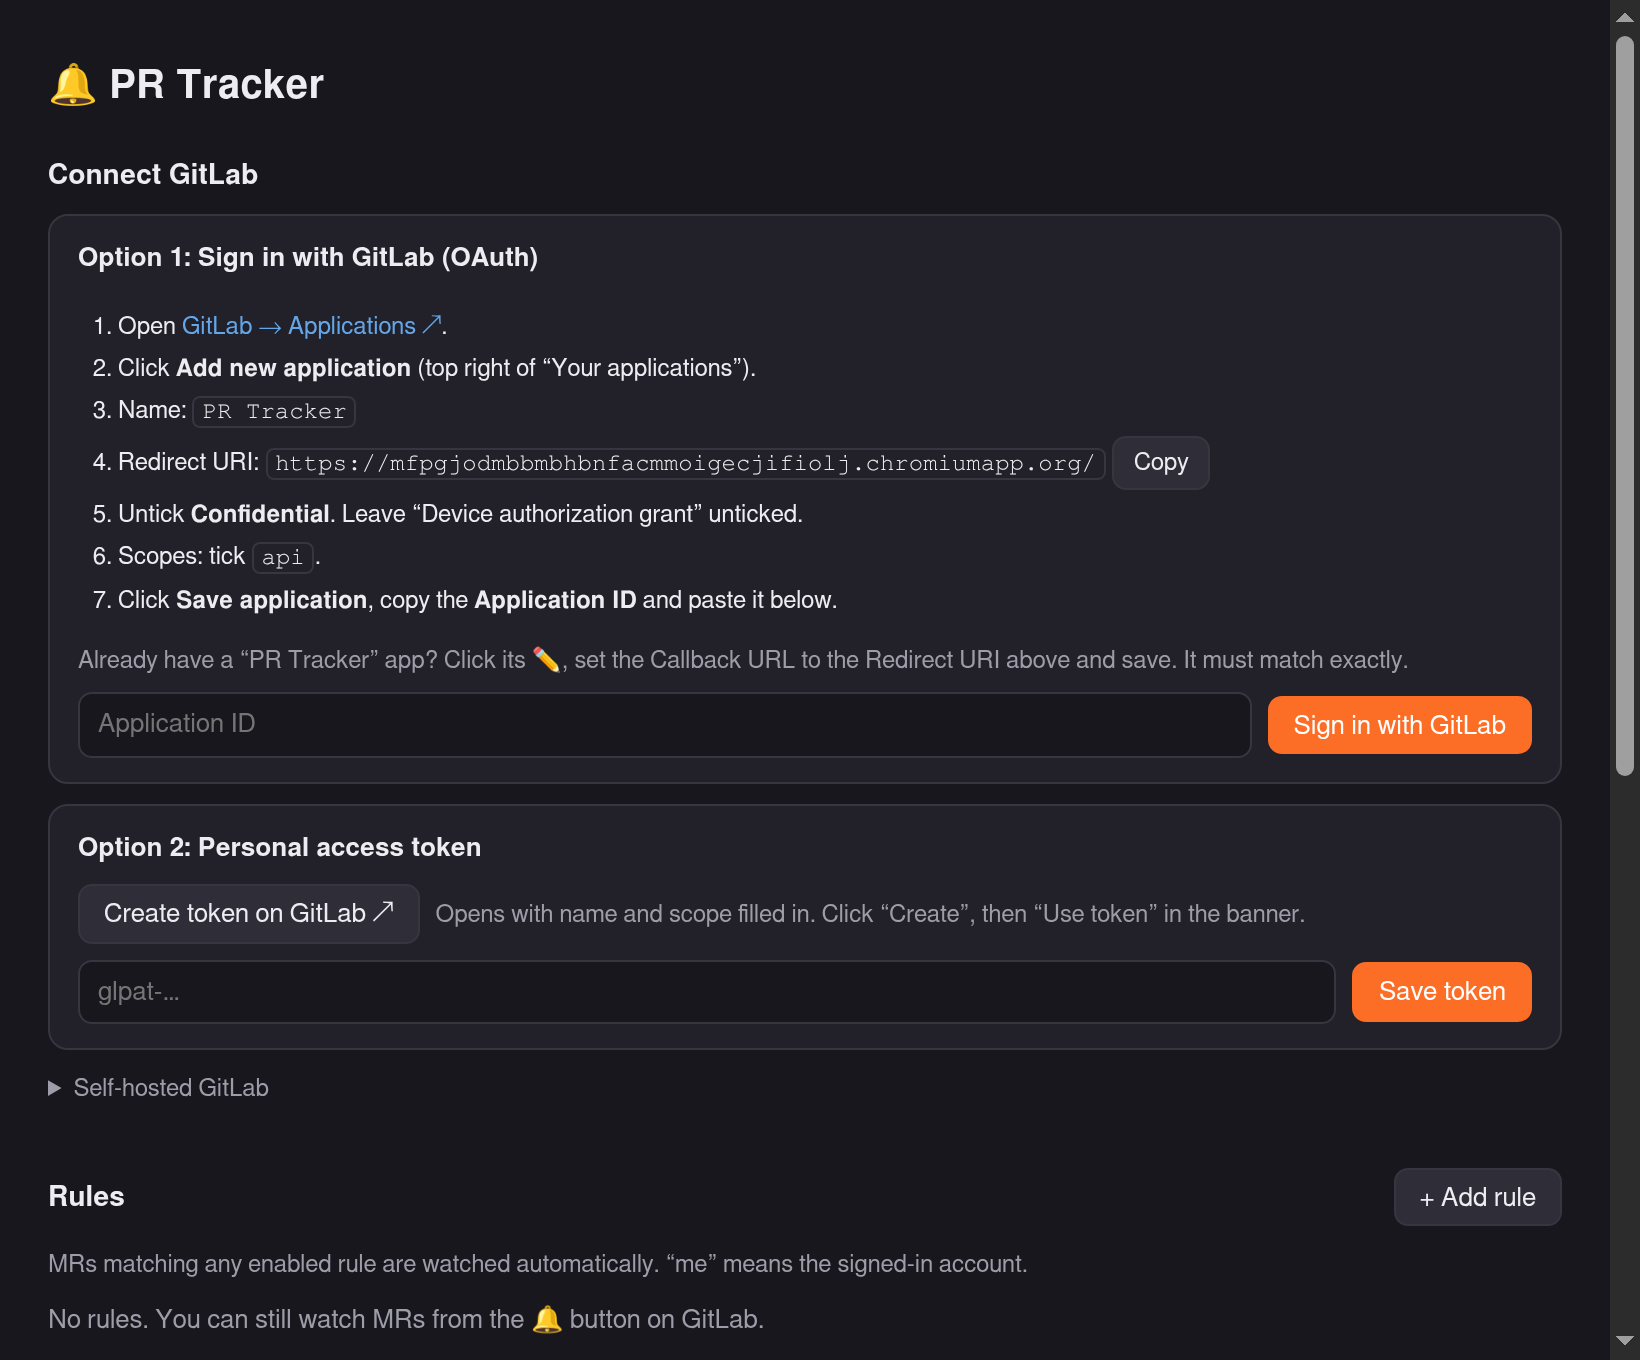
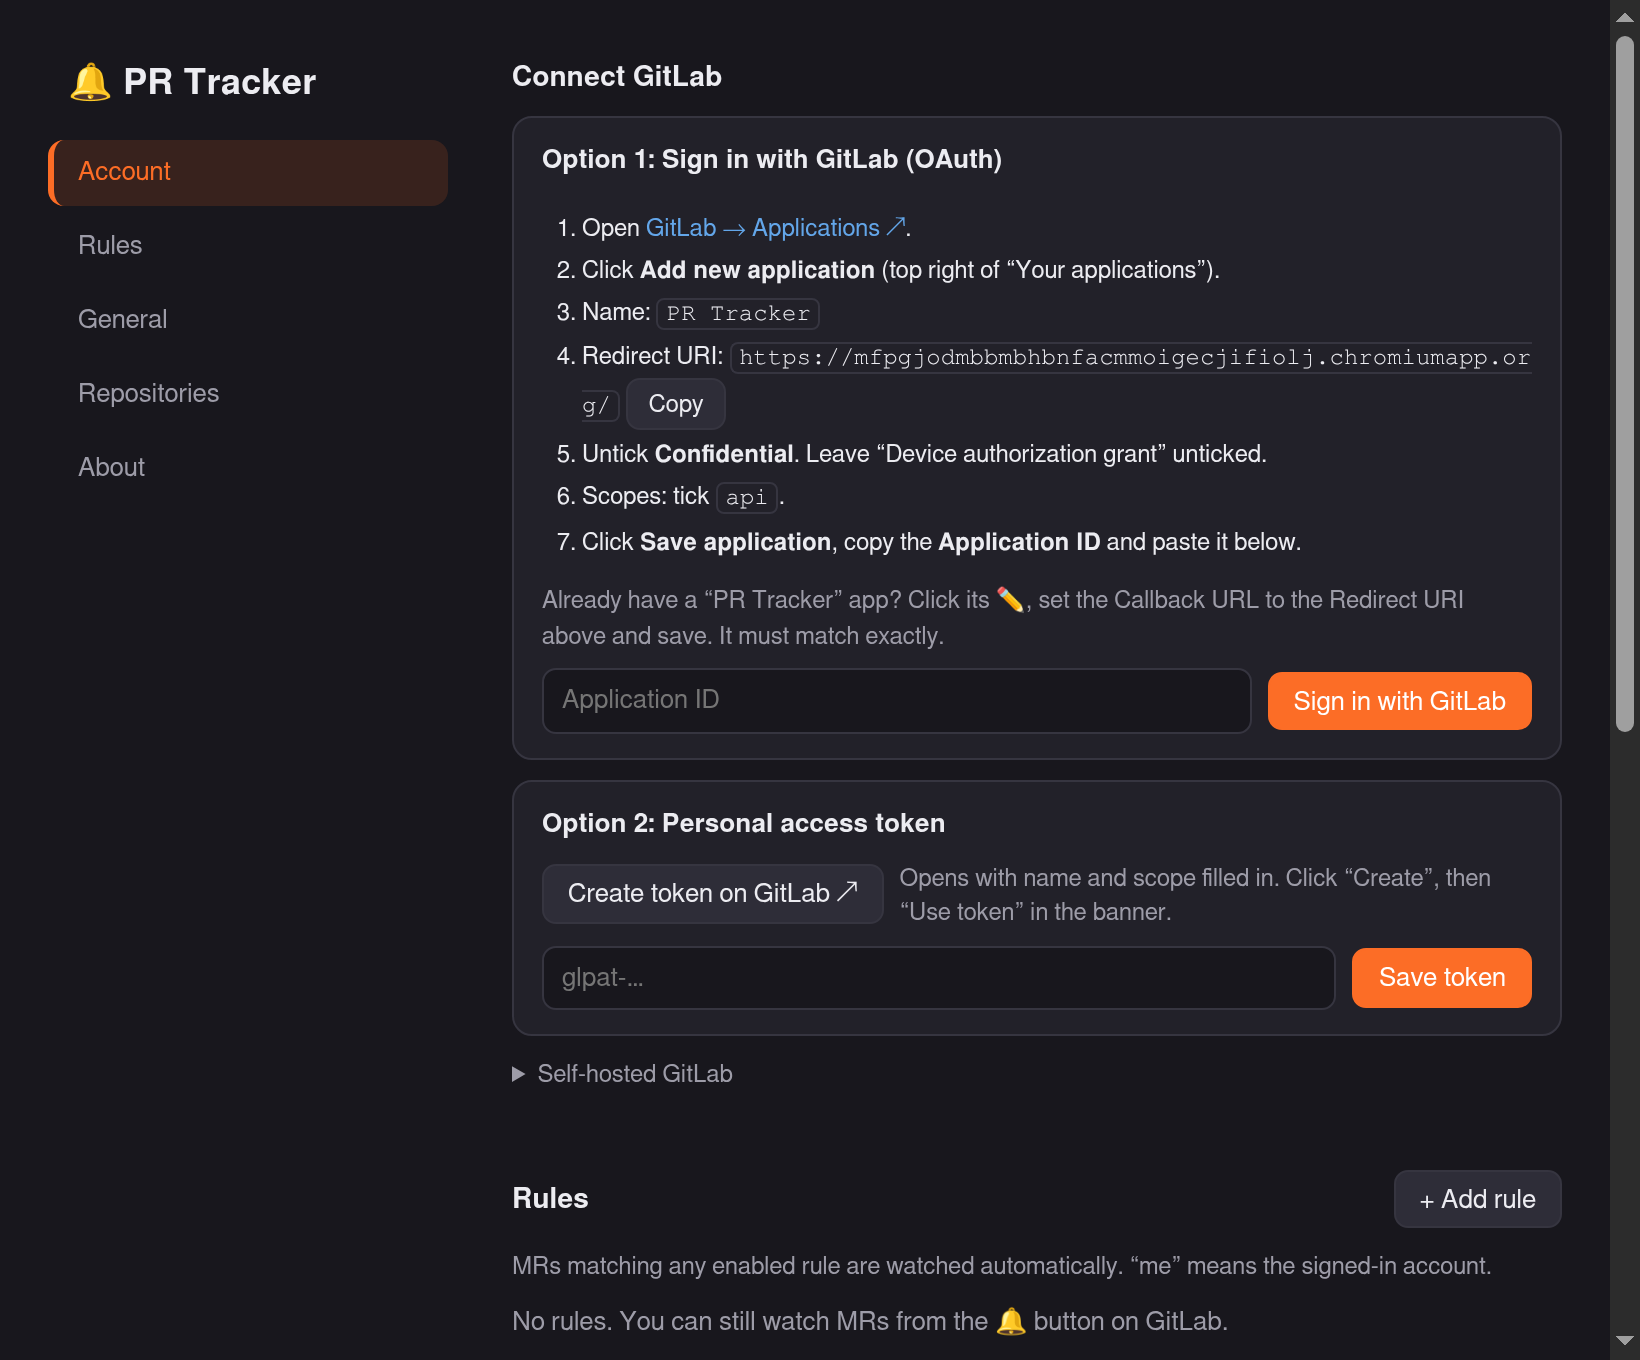
feat: add sticky vertical sidebar navigation with scroll-spy to Settings
- Replace 2-column Settings layout with a sticky left vertical tab picker and scrollable content pane
- Highlight active section tab with accent color and smooth-scroll on click
- Sync active tab automatically while scrolling (including bottom-of-page About detection)
- Refresh Settings screenshot in docs/screenshots/

diff --git a/src/pages/options/options.css b/src/pages/options/options.css
@@ -1,11 +1,86 @@
-body { padding: 28px 24px 64px; }
-.page { max-width: 1100px; margin: 0 auto; display: flex; flex-direction: column; gap: 20px; }
-.page-title { font-size: 20px; }
-.columns { display: grid; grid-template-columns: 1.15fr 1fr; gap: 20px; align-items: start; }
-.col { display: flex; flex-direction: column; gap: 20px; min-width: 0; }
-@media (max-width: 860px) { .columns { grid-template-columns: 1fr; } }
-section { display: flex; flex-direction: column; gap: 10px; }
-.field { display: grid; grid-template-columns: 140px 1fr; align-items: center; gap: 10px; }
+html { scroll-behavior: smooth; }
+body { padding: 28px 24px 96px; }
+.layout {
+  max-width: 1020px;
+  margin: 0 auto;
+  display: grid;
+  grid-template-columns: 200px minmax(0, 1fr);
+  gap: 32px;
+  align-items: start;
+}
+.sidebar {
+  position: sticky;
+  top: 28px;
+  display: flex;
+  flex-direction: column;
+  gap: 16px;
+}
+.brand { font-size: 18px; padding-left: 10px; }
+.nav { display: flex; flex-direction: column; gap: 4px; }
+.nav-item {
+  width: 100%;
+  text-align: left;
+  padding: 8px 12px;
+  border-radius: 8px;
+  border: 0;
+  border-left: 3px solid transparent;
+  background: transparent;
+  color: var(--muted);
+  font: 500 13px/1.3 system-ui, -apple-system, 'Segoe UI', sans-serif;
+  cursor: pointer;
+  transition: background 0.12s ease, color 0.12s ease, border-color 0.12s ease;
+}
+.nav-item:hover {
+  background: var(--surface);
+  color: var(--text);
+  border-color: transparent;
+}
+.nav-item.active {
+  background: color-mix(in srgb, var(--accent) 14%, transparent);
+  color: var(--accent);
+  border-left-color: var(--accent);
+}
+.nav-item.active:hover {
+  background: color-mix(in srgb, var(--accent) 18%, transparent);
+  border-left-color: var(--accent);
+}
+.content {
+  display: flex;
+  flex-direction: column;
+  gap: 28px;
+  min-width: 0;
+  max-width: 760px;
+}
+section {
+  display: flex;
+  flex-direction: column;
+  gap: 10px;
+  scroll-margin-top: 28px;
+}
+@media (max-width: 760px) {
+  .layout { grid-template-columns: 1fr; gap: 16px; }
+  .sidebar {
+    position: sticky;
+    top: 0;
+    z-index: 10;
+    background: var(--bg);
+    padding: 8px 0;
+    border-bottom: 1px solid var(--border);
+    gap: 10px;
+  }
+  .nav { flex-direction: row; overflow-x: auto; }
+  .nav-item {
+    width: auto;
+    border-left: 0;
+    border-bottom: 2px solid transparent;
+    border-radius: 6px 6px 0 0;
+  }
+  .nav-item.active, .nav-item.active:hover {
+    border-left-color: transparent;
+    border-bottom-color: var(--accent);
+  }
+}
+.field { display: grid; grid-template-columns: 150px 1fr; align-items: center; gap: 10px; }
 .field-checks { display: flex; flex-wrap: wrap; gap: 6px 4px; }
 @media (max-width: 560px) { .field { grid-template-columns: 1fr; } }
 ol { margin: 4px 0 0; padding-left: 20px; }

diff --git a/src/pages/options/nav.ts b/src/pages/options/nav.ts
@@ -1,0 +1,53 @@
+export function initSectionNav(): void {
+  const buttons = [...document.querySelectorAll<HTMLButtonElement>('.nav-item[data-target]')];
+  const sections = buttons
+    .map((btn) => document.getElementById(btn.dataset.target!))
+    .filter((el): el is HTMLElement => Boolean(el));
+
+  let activeId = sections[0]?.id ?? '';
+  let lockUntil = 0;
+
+  const setActive = (id: string): void => {
+    if (id === activeId) return;
+    activeId = id;
+
+    for (const btn of buttons) {
+      btn.classList.toggle('active', btn.dataset.target === id);
+    }
+  };
+
+  for (const btn of buttons) {
+    btn.addEventListener('click', () => {
+      const id = btn.dataset.target;
+      if (!id) return;
+
+      const target = document.getElementById(id);
+      if (!target) return;
+
+      setActive(id);
+      lockUntil = Date.now() + 500;
+      target.scrollIntoView({ behavior: 'smooth', block: 'start' });
+    });
+  }
+
+  const syncFromScroll = (): void => {
+    if (Date.now() < lockUntil || sections.length === 0) return;
+
+    const atBottom = window.innerHeight + window.scrollY >= document.documentElement.scrollHeight - 8;
+    if (atBottom) {
+      setActive(sections[sections.length - 1].id);
+      return;
+    }
+
+    let current = sections[0].id;
+    for (const section of sections) {
+      if (section.getBoundingClientRect().top <= 120) {
+        current = section.id;
+      }
+    }
+
+    setActive(current);
+  };
+
+  window.addEventListener('scroll', syncFromScroll, { passive: true });
+}

diff --git a/src/pages/options/options.html b/src/pages/options/options.html
@@ -7,19 +7,24 @@
     <link rel="stylesheet" href="options.css" />
   </head>
   <body>
-    <div class="page">
-      <h1 class="page-title">🔔 PR Tracker</h1>
-      <section id="connection"></section>
-      <div class="columns">
-        <div class="col">
-          <section id="rules"></section>
-        </div>
-        <div class="col">
-          <section id="general"></section>
-          <section id="repos"></section>
-          <section id="about"></section>
-        </div>
-      </div>
+    <div class="layout">
+      <aside class="sidebar">
+        <h1 class="brand">🔔 PR Tracker</h1>
+        <nav class="nav" aria-label="Settings sections">
+          <button type="button" class="nav-item active" data-target="connection">Account</button>
+          <button type="button" class="nav-item" data-target="rules">Rules</button>
+          <button type="button" class="nav-item" data-target="general">General</button>
+          <button type="button" class="nav-item" data-target="repos">Repositories</button>
+          <button type="button" class="nav-item" data-target="about">About</button>
+        </nav>
+      </aside>
+      <main class="content">
+        <section id="connection"></section>
+        <section id="rules"></section>
+        <section id="general"></section>
+        <section id="repos"></section>
+        <section id="about"></section>
+      </main>
     </div>
     <script src="options.js" type="module"></script>
   </body>

diff --git a/src/pages/options/options.ts b/src/pages/options/options.ts
@@ -5,6 +5,7 @@ import { createDeferredRenderer } from '../shared/storage-sync';
 import { renderAbout } from './about';
 import { renderConnection } from './connection';
 import { renderGeneral } from './general';
+import { initSectionNav } from './nav';
 import { renderRepos } from './repos';
 import { renderRules } from './rules';
 
@@ -33,6 +34,7 @@ storage.onChanged((changes) => {
   if (changes.repos) scheduleRepos();
 });
 
+initSectionNav();
 renderAbout(aboutEl);
 
 void Promise.all([
